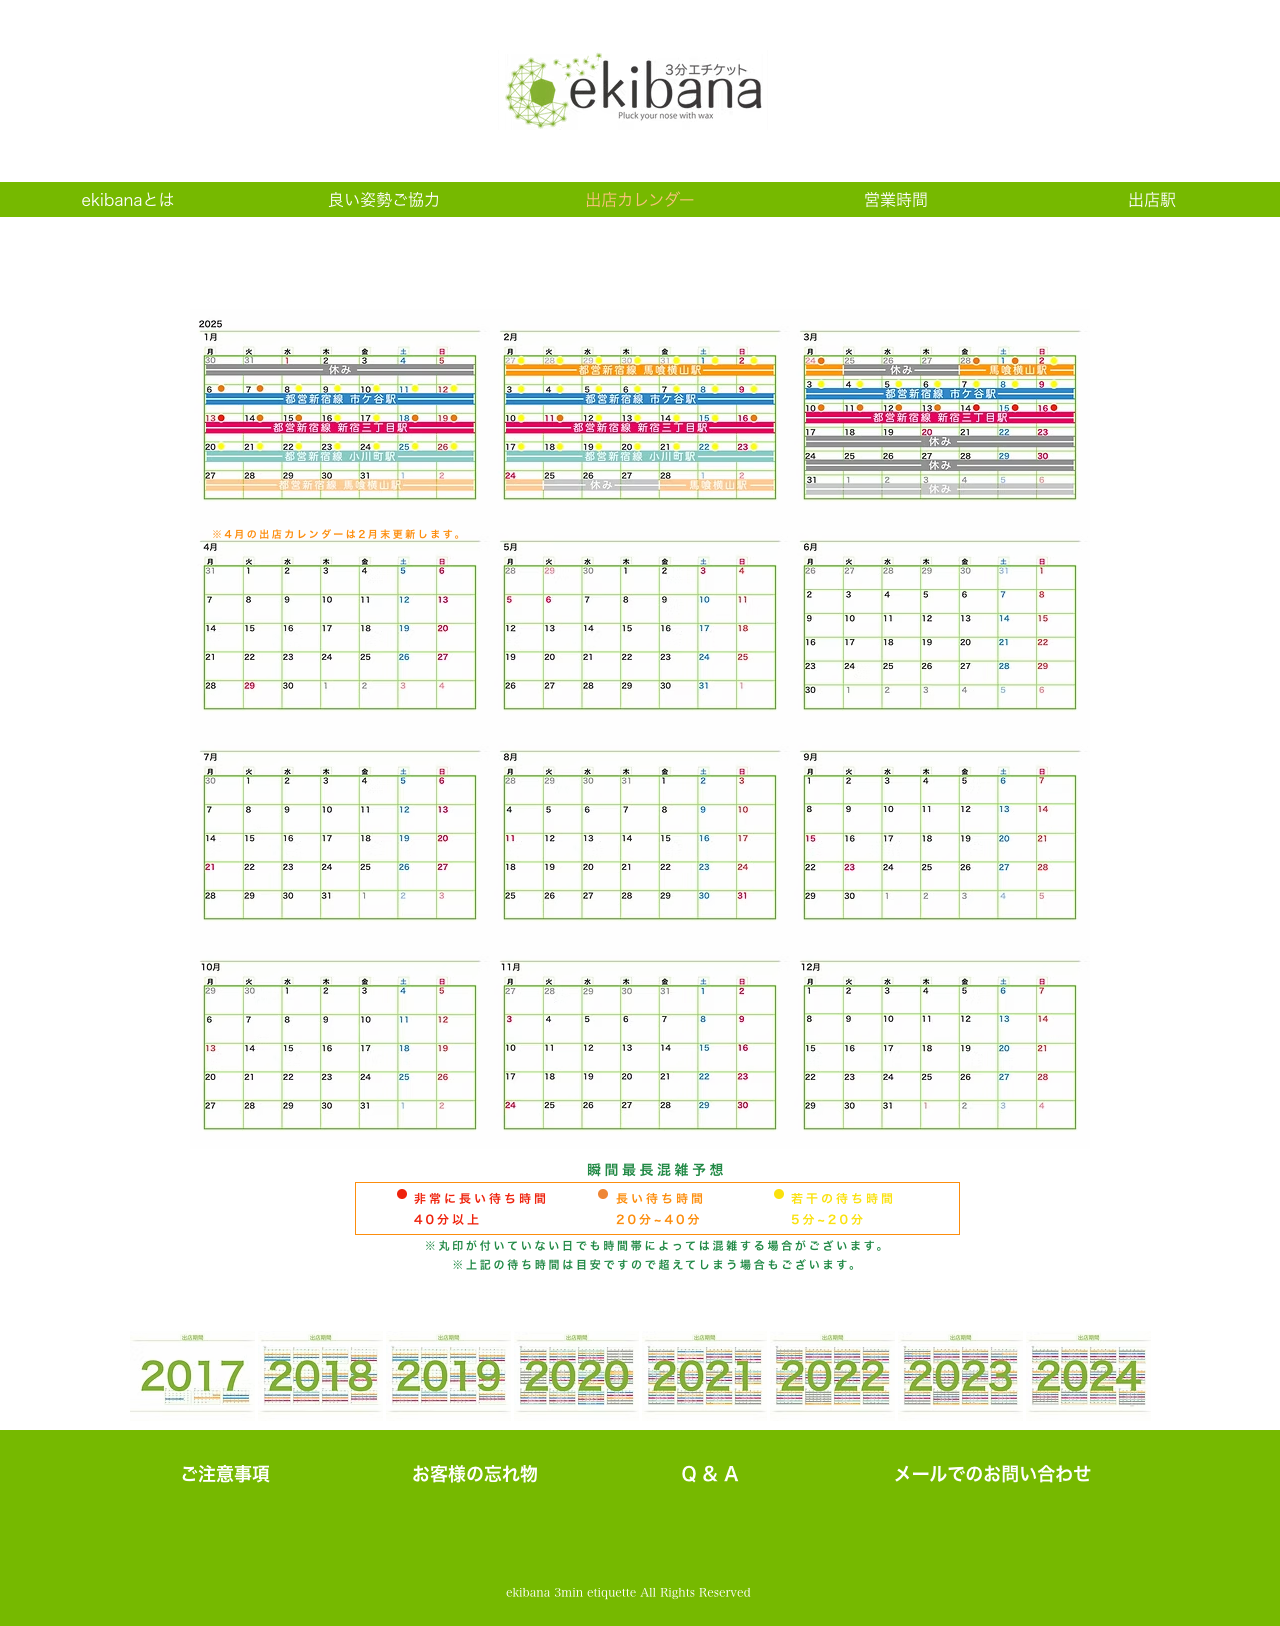
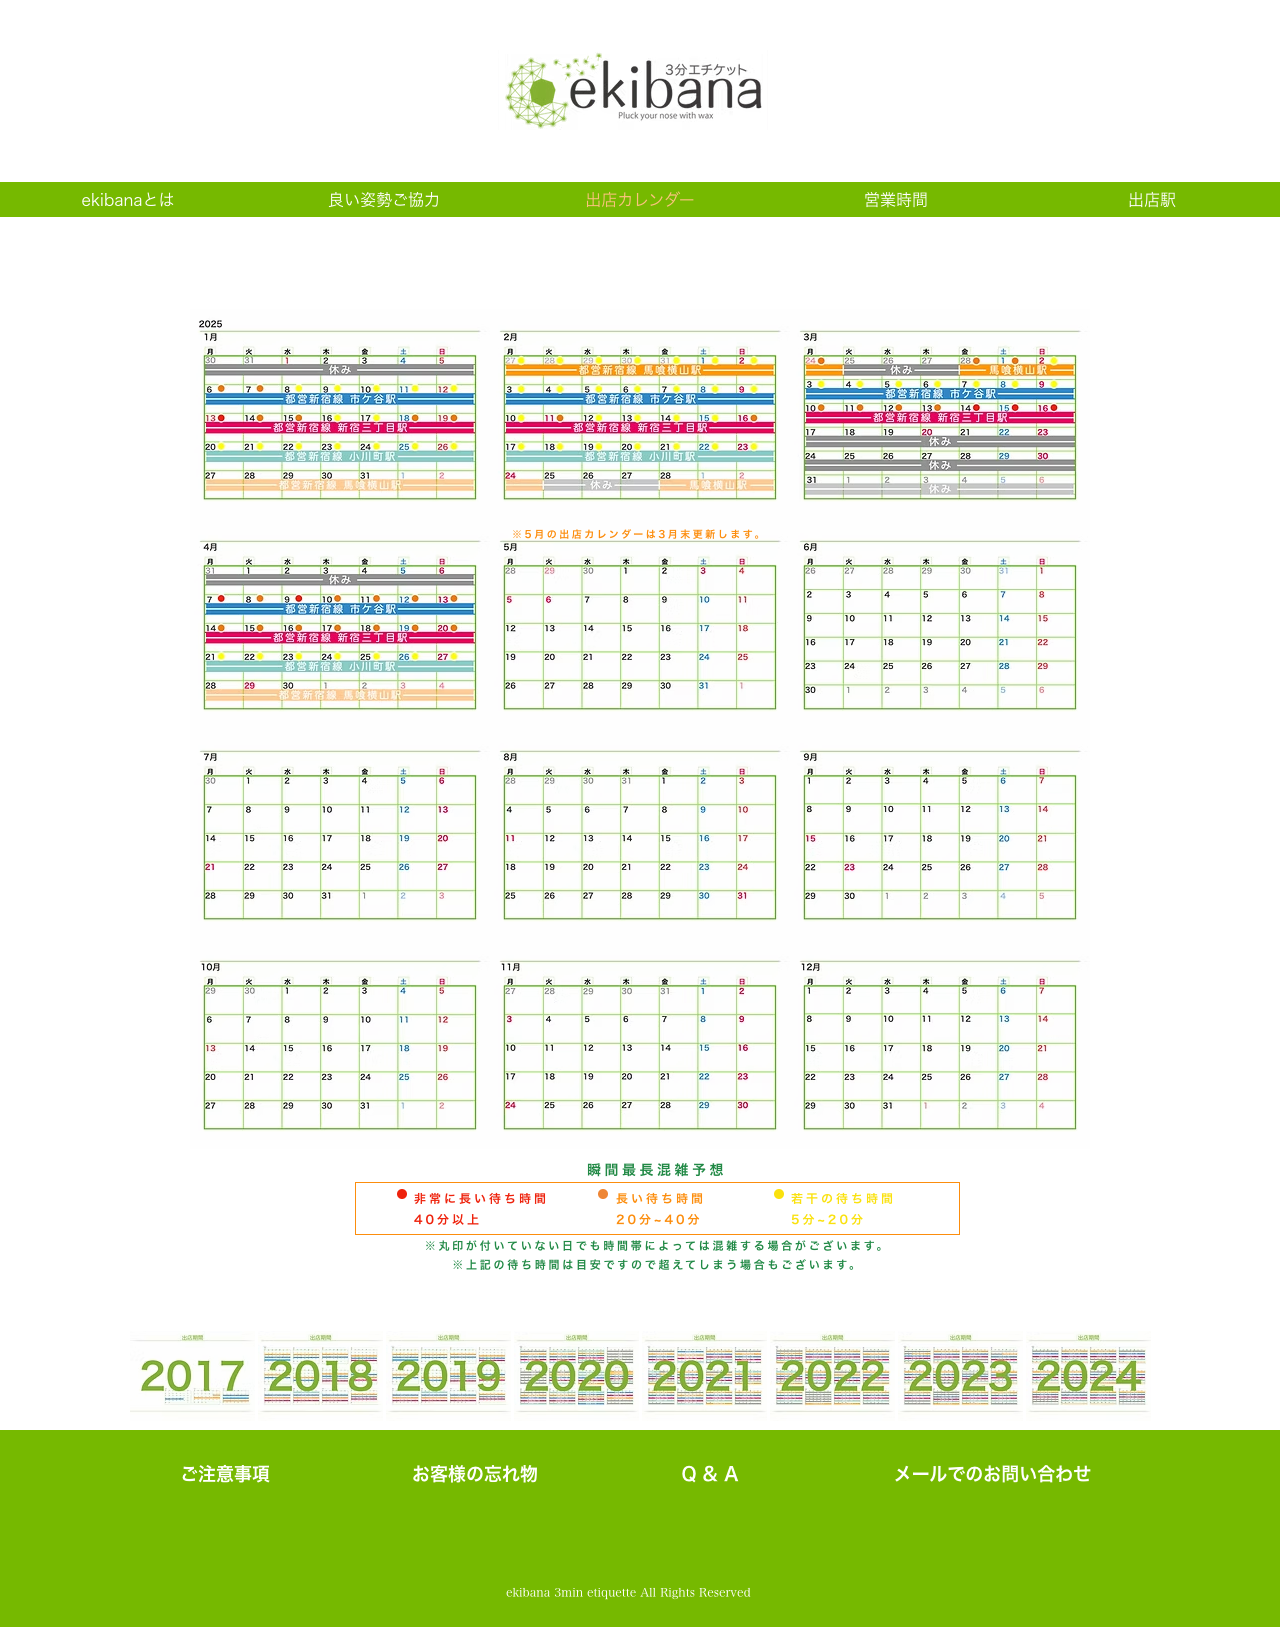
Add April 2025 schedule entries

diff --git a/hanage/schedules/years/schedule-2025.ts b/hanage/schedules/years/schedule-2025.ts
@@ -78,4 +78,31 @@ export const schedules2025: SchedulesOfMonth = {
       to: "2025-03-31",
     },
   ],
+  4: [
+    {
+      station: holiday,
+      from: "2025-04-01",
+      to: "2025-04-06",
+    },
+    {
+      station: stations.ichigaya,
+      from: "2025-04-07",
+      to: "2025-04-13",
+    },
+    {
+      station: stations.shinjukuSanchome,
+      from: "2025-04-14",
+      to: "2025-04-20",
+    },
+    {
+      station: stations.ogawamachi,
+      from: "2025-04-21",
+      to: "2025-04-27",
+    },
+    {
+      station: stations.bakuroYokoyama,
+      from: "2025-04-28",
+      to: "2025-04-30",
+    },
+  ],
 };
